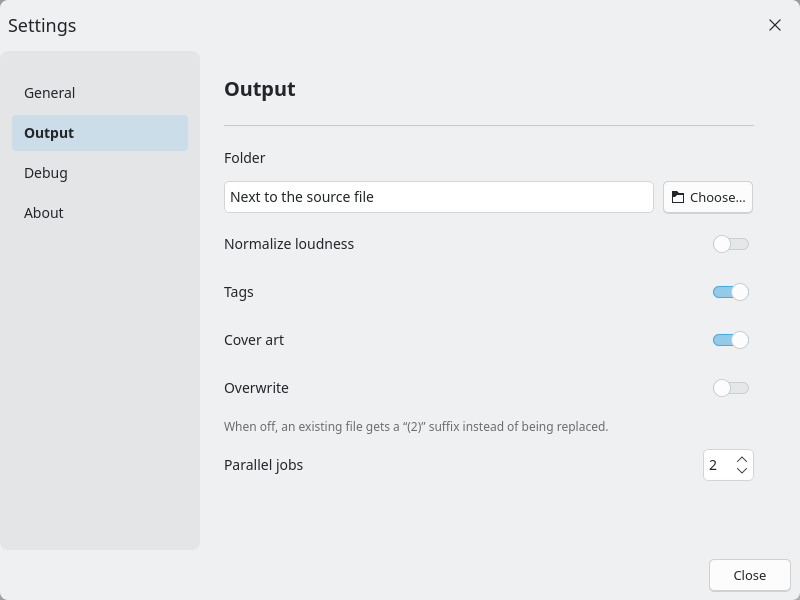
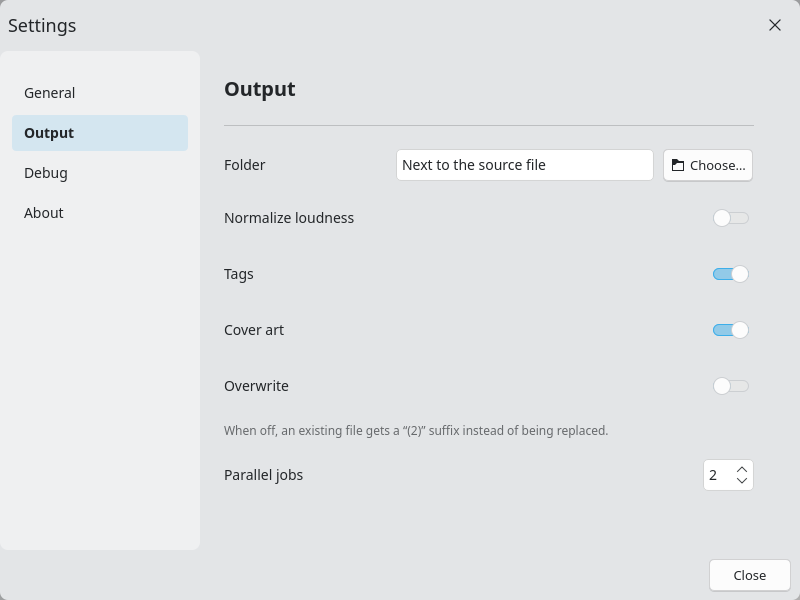
Match Luma's settings style
- Use alternate/background theme surfaces for the page and sidebar, keeping Luma's lighter category panel without the queue showing through the dialog.
- Restore Luma's 16px row spacing, 40px control rows, right-aligned controls and the folder field on its label row.
- Select the org.kde.desktop QML controls style explicitly so the settings keep the Breeze/Kirigami look outside the Plasma launcher.
- Refresh the settings screenshots.

diff --git a/qml/SettingsDialog.qml b/qml/SettingsDialog.qml
@@ -20,8 +20,13 @@ Controls.Dialog {
     anchors.centerIn: Controls.Overlay.overlay
     closePolicy: Controls.Popup.CloseOnEscape | Controls.Popup.CloseOnPressOutside
 
+    // Luma's dialog is translucent over the dark video window, which makes the
+    // sidebar read as a lighter panel. The queue behind this dialog is light, so
+    // use the two theme surfaces directly instead: the alternate background for
+    // the page, the normal one for the sidebar. This keeps the same contrast
+    // without letting the queue show through the dialog.
     background: Rectangle {
-        color: Kirigami.Theme.backgroundColor
+        color: Kirigami.Theme.alternateBackgroundColor
         radius: 8
         border.color: "transparent"
     }
@@ -78,7 +83,7 @@ Controls.Dialog {
         Rectangle {
             Layout.preferredWidth: 200
             Layout.fillHeight: true
-            color: Kirigami.Theme.alternateBackgroundColor
+            color: Kirigami.Theme.backgroundColor
             radius: 8
 
             ColumnLayout {
@@ -190,7 +195,7 @@ Controls.Dialog {
                         GridLayout {
                             columns: 2
                             columnSpacing: 16
-                            rowSpacing: 12
+                            rowSpacing: 16
                             Layout.fillWidth: true
 
                             Controls.Label {
@@ -251,7 +256,8 @@ Controls.Dialog {
                             }
                             Item {
                                 Layout.preferredWidth: settingsDialog.controlWidth
-                                Layout.preferredHeight: 36
+                                Layout.preferredHeight: 40
+                                Layout.alignment: Qt.AlignRight | Qt.AlignVCenter
                                 Controls.ComboBox {
                                     anchors.fill: parent
                                     font.pixelSize: 14
@@ -280,7 +286,8 @@ Controls.Dialog {
                             }
                             Item {
                                 Layout.preferredWidth: settingsDialog.controlWidth
-                                Layout.preferredHeight: 36
+                                Layout.preferredHeight: 40
+                                Layout.alignment: Qt.AlignRight | Qt.AlignVCenter
                                 Controls.Switch {
                                     anchors.right: parent.right
                                     anchors.verticalCenter: parent.verticalCenter
@@ -312,17 +319,16 @@ Controls.Dialog {
                         GridLayout {
                             columns: 2
                             columnSpacing: 16
-                            rowSpacing: 12
+                            rowSpacing: 16
                             Layout.fillWidth: true
 
                             Controls.Label {
-                                Layout.columnSpan: 2
                                 text: qsTr("label_output")
                                 color: Kirigami.Theme.textColor
                                 font.pixelSize: 14
+                                Layout.alignment: Qt.AlignLeft | Qt.AlignVCenter
                             }
                             RowLayout {
-                                Layout.columnSpan: 2
                                 Layout.fillWidth: true
                                 spacing: 8
 
@@ -355,7 +361,8 @@ Controls.Dialog {
                             }
                             Item {
                                 Layout.preferredWidth: settingsDialog.controlWidth
-                                Layout.preferredHeight: 36
+                                Layout.preferredHeight: 40
+                                Layout.alignment: Qt.AlignRight | Qt.AlignVCenter
                                 Controls.Switch {
                                     anchors.right: parent.right
                                     anchors.verticalCenter: parent.verticalCenter
@@ -373,7 +380,8 @@ Controls.Dialog {
                             }
                             Item {
                                 Layout.preferredWidth: settingsDialog.controlWidth
-                                Layout.preferredHeight: 36
+                                Layout.preferredHeight: 40
+                                Layout.alignment: Qt.AlignRight | Qt.AlignVCenter
                                 Controls.Switch {
                                     anchors.right: parent.right
                                     anchors.verticalCenter: parent.verticalCenter
@@ -391,7 +399,8 @@ Controls.Dialog {
                             }
                             Item {
                                 Layout.preferredWidth: settingsDialog.controlWidth
-                                Layout.preferredHeight: 36
+                                Layout.preferredHeight: 40
+                                Layout.alignment: Qt.AlignRight | Qt.AlignVCenter
                                 Controls.Switch {
                                     anchors.right: parent.right
                                     anchors.verticalCenter: parent.verticalCenter
@@ -410,7 +419,8 @@ Controls.Dialog {
                             }
                             Item {
                                 Layout.preferredWidth: settingsDialog.controlWidth
-                                Layout.preferredHeight: 36
+                                Layout.preferredHeight: 40
+                                Layout.alignment: Qt.AlignRight | Qt.AlignVCenter
                                 Controls.Switch {
                                     anchors.right: parent.right
                                     anchors.verticalCenter: parent.verticalCenter
@@ -437,7 +447,8 @@ Controls.Dialog {
                             }
                             Item {
                                 Layout.preferredWidth: settingsDialog.controlWidth
-                                Layout.preferredHeight: 36
+                                Layout.preferredHeight: 40
+                                Layout.alignment: Qt.AlignRight | Qt.AlignVCenter
                                 Controls.SpinBox {
                                     anchors.right: parent.right
                                     anchors.verticalCenter: parent.verticalCenter
@@ -472,7 +483,7 @@ Controls.Dialog {
                         GridLayout {
                             columns: 2
                             columnSpacing: 16
-                            rowSpacing: 12
+                            rowSpacing: 16
                             Layout.fillWidth: true
 
                             Controls.Label {
@@ -484,7 +495,8 @@ Controls.Dialog {
                             }
                             Item {
                                 Layout.preferredWidth: settingsDialog.controlWidth
-                                Layout.preferredHeight: 36
+                                Layout.preferredHeight: 40
+                                Layout.alignment: Qt.AlignRight | Qt.AlignVCenter
                                 Controls.ComboBox {
                                     anchors.fill: parent
                                     font.pixelSize: 14

diff --git a/main.cpp b/main.cpp
@@ -6,6 +6,7 @@
 #include <QLocale>
 #include <QQmlApplicationEngine>
 #include <QQmlContext>
+#include <QQuickStyle>
 #include <QQuickWindow>
 #include <QStyle>
 #include <QStyleFactory>
@@ -43,6 +44,12 @@ int main(int argc, char *argv[]) {
     app.setApplicationVersion(QString::fromLatin1(LUMA_CONVERTER_VERSION));
     QGuiApplication::setDesktopFileName(QStringLiteral("luma-converter"));
     app.setWindowIcon(QIcon(QStringLiteral(":/assets/luma-converter.png")));
+
+    // Match Luma: use the KDE controls style even when the app is started
+    // outside the Plasma launcher, which normally sets this environment
+    // variable. Without it Qt falls back to Basic and the settings lose the
+    // Breeze/Kirigami look.
+    QQuickStyle::setStyle(QStringLiteral("org.kde.desktop"));
 
     // Breeze drives the Qt Widgets side (file dialogs) and qqc2-desktop-style,
     // which supplies the Kirigami controls look. Creating the style plugin is

diff --git a/AGENTS.md b/AGENTS.md
@@ -36,8 +36,8 @@ cmake --build build -j$(nproc)            # single target: --target luma_convert
 ## Architecture
 
 - `main.cpp` is the composition root: `ConfigManager`, `ConversionQueue`, the
-  `QQmlApplicationEngine`, the `Breeze` widget style, translations and the
-  positional file arguments.
+  `QQmlApplicationEngine`, the `Breeze` widget style, the `org.kde.desktop` QML
+  controls style, translations and the positional file arguments.
 - `core/ConfigManager` — settings in `~/.config/luma-converter/luma-converter.conf`
   (QSettings INI), exposed with `Q_PROPERTY`s.
 - `core/FormatPreset` — the codec table: id, label, extension, encoder, quality
@@ -66,8 +66,10 @@ cmake --build build -j$(nproc)            # single target: --target luma_convert
 - `SettingsDialog` copies Luma's layout: a plain `Controls.Dialog` at 800x600
   with a 200px category sidebar, a `Flickable` page and a `DialogButtonBox`
   footer. The main window minimum (860x640) keeps it from being clipped; do not
-  lower it without shrinking the dialog. About is the last category, not a
-  separate dialog.
+  lower it without shrinking the dialog. It uses `alternateBackgroundColor` for
+  the page and `backgroundColor` for the sidebar: Luma's translucent surfaces
+  rely on its dark video window behind, while the converter's queue is light.
+  About is the last category, not a separate dialog.
 - The `Breeze` widget style is created only on non-headless platforms: on
   `offscreen`/`minimal` the plugin waits for a desktop session and hangs the
   process.

diff --git a/CHANGELOG.md b/CHANGELOG.md
@@ -11,9 +11,12 @@ and this project adheres to [Semantic Versioning](https://semver.org/spec/v2.0.0
 
 - The output format, quality, sample rate and channel layout are now selected in
   a bar at the bottom of the window instead of at the top.
-- Settings use the Luma sidebar layout (General, Output, Debug, About); the
+- Settings use the Luma sidebar layout (General, Output, Debug, About) with the
+  same 800x600 size, row spacing, lighter category panel and About page; the
   output folder, loudness normalization, tags, cover art, overwrite and parallel
   jobs moved there from the main window.
+- The KDE QML controls style is selected explicitly, so the settings keep the
+  Breeze/Kirigami look when the app is started outside the Plasma launcher.
 - About is now a page of the settings window, opened from the same Settings
   action as everything else.
 - The application icon uses a flat background instead of a gradient and a
